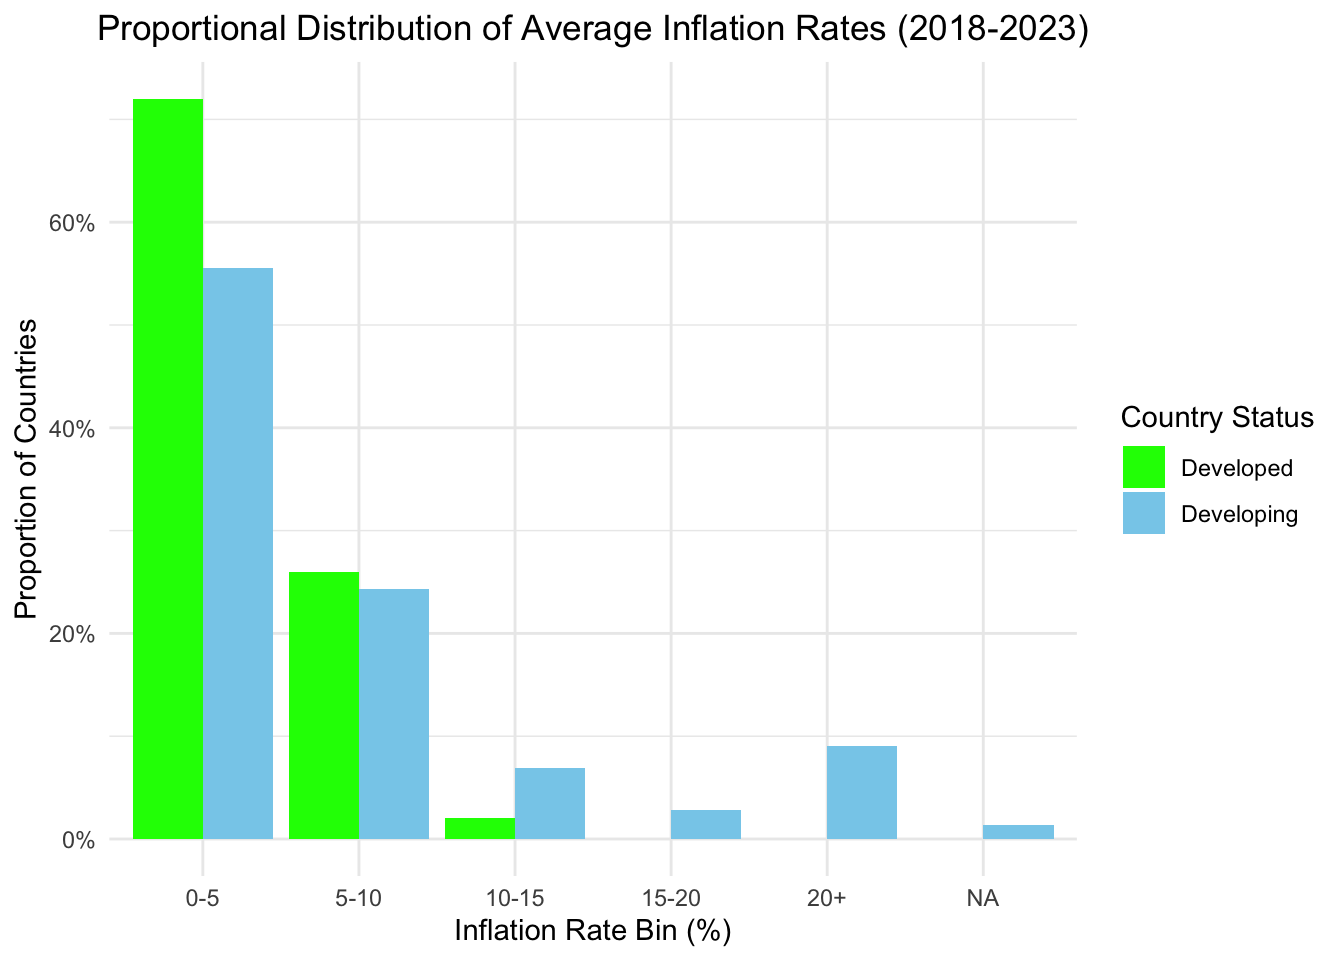
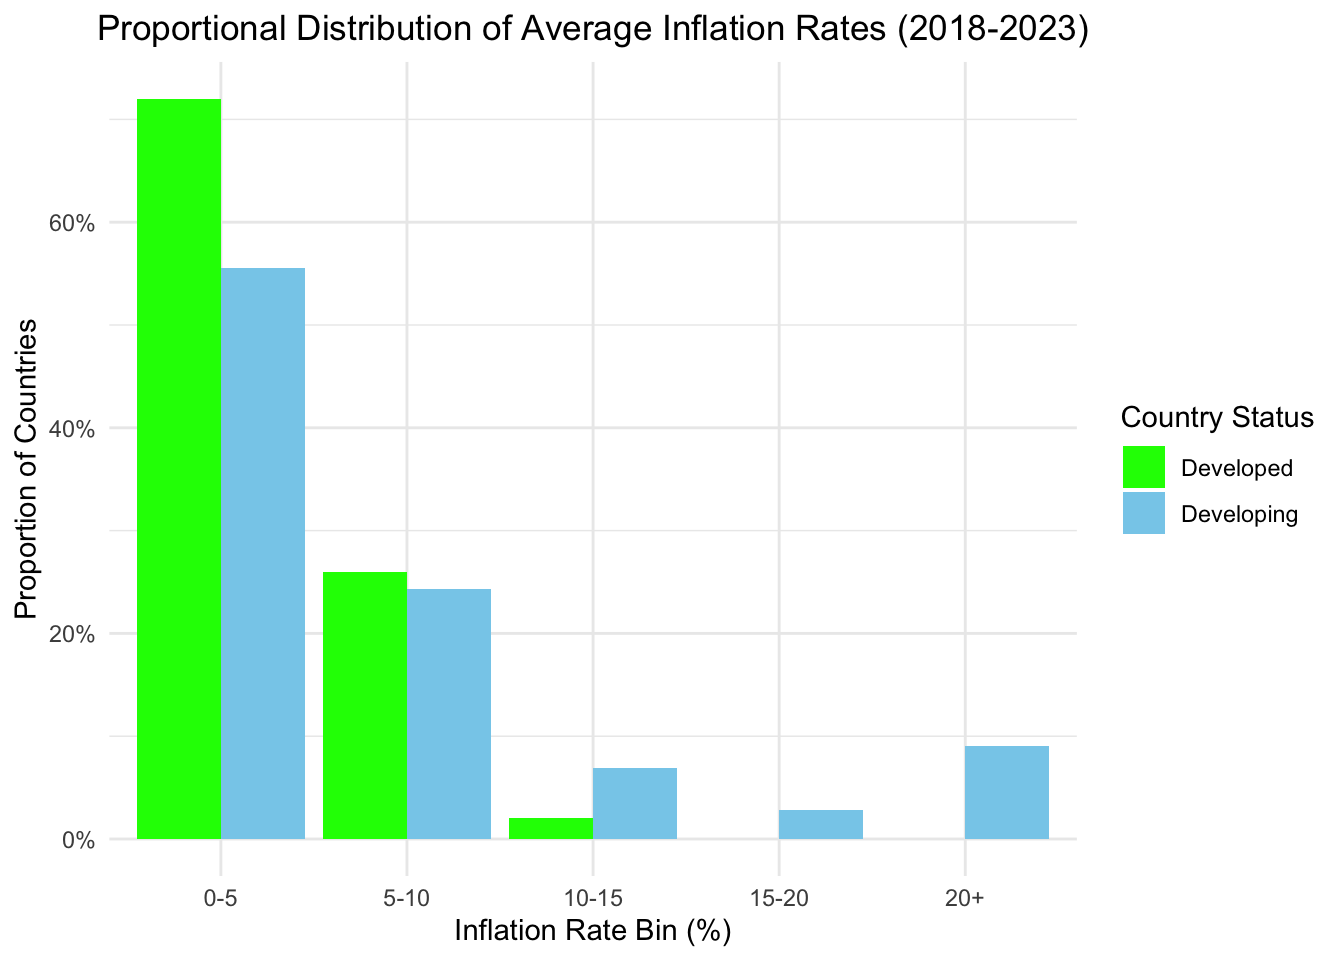
edited graph 10

diff --git a/docs/results.html b/docs/results.html
@@ -649,8 +649,8 @@ pre > code.sourceCode > span > a:first-child::before { text-decoration: underlin
 <span id="cb10-32"><a href="#cb10-32" aria-hidden="true" tabindex="-1"></a>)</span></code><button title="Copy to Clipboard" class="code-copy-button"><i class="bi"></i></button></pre></div>
 </details>
 <div class="cell-output-display">
-<div class="parcoords html-widget html-fill-item" height="464px" id="htmlwidget-e7d42fb65e617a64bbcc" style="width:100%;height:464px; position:relative; overflow-x:auto; overflow-y:hidden; max-width:100%;" width="100%"></div>
-<script type="application/json" data-for="htmlwidget-e7d42fb65e617a64bbcc">{"x":{"data":{"names":["1","2","3","4","5","6","7","8","9","10","11","12","13","14","15","16","17","18","19","20","21","22","23","24","25","26","27","28","29","30","31","32","33","34","35","36","37","38","39","40","41","42","43"],"Country":["Albania","Andorra","Austria","Belarus","Belgium","Bosnia and Herzegovina","Bulgaria","Croatia","Cyprus","Czech Republic","Denmark","Estonia","Finland","France","Germany","Greece","Hungary","Iceland","Ireland","Italy","Kosovo","Latvia","Lithuania","Luxembourg","Malta","Moldova","Montenegro","Netherlands","North Macedonia","Norway","Poland","Portugal","Romania","Russian Federation","San Marino","Serbia","Slovak Republic","Slovenia","Spain","Sweden","Switzerland","Ukraine","United Kingdom"],"Ratio_2018":[0.05755395683453238,0.0440771349862259,0.03238866396761134,0.06526315789473684,0.01801801801801802,0.1088825214899714,0.1343283582089552,0.04132231404958678,0.05539070227497527,0.08832807570977917,0.05571847507331378,0.4625,0.01837672281776417,0.0163098878695209,0.01812191103789127,0.008914525432616676,0.07814761215629523,0.07753164556962025,0.1219512195121951,0.005970149253731343,0.1988304093567251,0.1081081081081081,0.1186943620178041,0.05741626794258373,0.1739130434782609,0.1289308176100629,0.0709318497913769,0.04457364341085271,0.07178217821782178,0.02030456852791878,0.1211498973305955,0.02304526748971193,0.1657458563535912,0.2058823529411765,0.02622377622377622,0.08442776735459663,0.08097165991902834,0.0619718309859155,0.02407221664994985,0.04810126582278481,0.0728643216080402,0.05794701986754967,0.01622247972190035],"Ratio_2019":[0.03115727002967359,0.05649717514124294,0.02124645892351275,0.03414634146341463,0.02254098360655738,0.08734939759036144,0.2185792349726776,0.04829545454545454,0.05913978494623656,0.1216216216216216,0.05029585798816568,0.4457831325301205,0.01993865030674847,0.02151639344262295,0.01706484641638225,0.01024258760107817,0.07503828483920369,0.02857142857142857,0.08944543828264759,0.002994011976047904,0.2711864406779661,0.01634877384196185,0.1284916201117318,0.1294642857142857,0.1045918367346939,0.125,0.05203045685279187,0.04831932773109243,0.09653465346534654,0.0270935960591133,0.0962800875273523,0.02315608919382504,0.1065573770491803,0.1605839416058394,0.03484320557491289,0.08317214700193423,0.05208333333333334,0.05303030303030303,0.02049180327868853,0.07002801120448179,0.0303030303030303,0.06324110671936758,0.01866977829638273],"Ratio_2020":[-0.04353562005277044,-0.2413793103448276,-0.07961399276236429,-0.01473684210526316,-0.04736371760500446,-0.08086253369272237,-0.1754385964912281,-0.09872241579558654,-0.02959094865100087,-0.1436314363143631,-0.04265402843601895,-0.1584699453551912,-0.03320053120849933,-0.06631762652705062,-0.06038291605301913,-0.04362101313320826,-0.05674653215636823,-0.08903225806451613,0.1263157894736842,-0.05775470473718365,-0.2355555555555555,-0.08196721311475409,0.002159827213822894,-0.03658536585365853,-0.07201646090534979,-0.226775956284153,-0.1425908667287978,-0.07317073170731707,-0.09251968503937008,-0.02819956616052061,-0.03496503496503496,-0.06152705707931801,-0.07489878542510121,-0.140625,-0.09497206703910616,-0.01581722319859402,-0.05612244897959184,-0.0511221945137157,-0.09144295302013423,-0.04962779156327544,-0.05324074074074073,-0.0627062706270627,-0.09735349716446126],"Ratio_2021":[0.1183510638297872,0.1707818930041152,0.05090909090909091,0.05825242718446601,0.0639481000926784,0.2078651685393259,0.3422222222222222,0.167741935483871,0.09969788519637462,0.09828009828009827,0.2067039106145252,0.4034090909090909,0.03693570451436389,0.06039076376554174,0.0544918998527246,0.04174950298210736,0.09256844850065188,0.07085561497326204,0.3098859315589353,0.06116838487972509,0.4953703703703703,0.1509009009009009,0.1428571428571429,0.2938775510204082,0.2721774193548387,0.4136904761904762,0.1518691588785047,0.125,0.08538899430740038,0.09375,0.1287313432835821,0.04578313253012049,0.1102514506769826,0.3597560975609757,0.1746617466174662,0.1370106761565836,0.07855973813420622,0.1122994652406417,0.05795847750865053,0.1603260869565218,0.1365853658536585,0.06952965235173825,0.08182683158896289],"Ratio_2022":[0.07480916030534351,0.2467866323907455,0.06122448979591836,-0.1138014527845036,0.02876318312559923,0.1354838709677419,0.1813953488372093,0.1032448377581121,0.05957943925233645,0.06588235294117646,0.0505050505050505,0.00546448087431694,0.02029769959404601,0.02340234023402341,0.02160493827160494,0.03118040089086859,0.0620782726045884,0.1335311572700296,0.1995359628770302,0.03403330919623462,0.2139303482587064,0.07177033492822966,0.06315789473684211,0.05668016194331984,0.08316430020283976,-0.1432664756446992,0.09065155807365441,0.1033057851239669,0.04263565891472868,0.08264462809917356,0.1138211382113821,0.06049822064056939,0.07992202729044834,-0.06486486486486487,0.1060402684563758,0.04672897196261682,0.03292894280762565,0.03713892709766162,0.056672760511883,0.04437869822485208,0.08333333333333333,-0.3706563706563706,0.04819277108433735],"Ratio_2023":[0.05852842809364549,0.03846153846153846,-0.01032258064516129,0.09582309582309581,0.01330798479087452,0.05279503105590062,0.08181818181818182,0.04920634920634921,0.03234152652005175,-0.002358490566037736,0.08417508417508418,-0.155440414507772,-0.01558441558441558,0.0100090991810737,-0.004784688995215311,0.0118413262285376,-0.01224489795918367,0.08038585209003216,-0.1270207852193996,0.005200594353640416,0.1885714285714286,-0.006880733944954128,-0.007832898172323761,-0.04280155642023347,0.1585623678646935,0.0198300283286119,0.0975609756097561,0.002222222222222222,0.01834862385321101,0.01136363636363636,0.004032258064516129,0.02320887991927346,0.04030710172744722,0.1846153846153846,0.005532503457814661,0.05112474437627812,0.02857142857142857,0.03070175438596491,0.02571428571428572,-0.005494505494505495,0.02102102102102102,0.06439854191980558,0.003]},"options":{"rownames":false,"brushMode":"1D-axes","brushPredicate":"AND","reorderable":true,"margin":{"top":50,"bottom":50,"left":100,"right":50},"alpha":0.5,"mode":"queue","bundlingStrength":0.5,"smoothness":0},"autoresize":false,"tasks":null},"evals":[],"jsHooks":[]}</script>
+<div class="parcoords html-widget html-fill-item" height="464px" id="htmlwidget-7f56a4cbf88b3db8c931" style="width:100%;height:464px; position:relative; overflow-x:auto; overflow-y:hidden; max-width:100%;" width="100%"></div>
+<script type="application/json" data-for="htmlwidget-7f56a4cbf88b3db8c931">{"x":{"data":{"names":["1","2","3","4","5","6","7","8","9","10","11","12","13","14","15","16","17","18","19","20","21","22","23","24","25","26","27","28","29","30","31","32","33","34","35","36","37","38","39","40","41","42","43"],"Country":["Albania","Andorra","Austria","Belarus","Belgium","Bosnia and Herzegovina","Bulgaria","Croatia","Cyprus","Czech Republic","Denmark","Estonia","Finland","France","Germany","Greece","Hungary","Iceland","Ireland","Italy","Kosovo","Latvia","Lithuania","Luxembourg","Malta","Moldova","Montenegro","Netherlands","North Macedonia","Norway","Poland","Portugal","Romania","Russian Federation","San Marino","Serbia","Slovak Republic","Slovenia","Spain","Sweden","Switzerland","Ukraine","United Kingdom"],"Ratio_2018":[0.05755395683453238,0.0440771349862259,0.03238866396761134,0.06526315789473684,0.01801801801801802,0.1088825214899714,0.1343283582089552,0.04132231404958678,0.05539070227497527,0.08832807570977917,0.05571847507331378,0.4625,0.01837672281776417,0.0163098878695209,0.01812191103789127,0.008914525432616676,0.07814761215629523,0.07753164556962025,0.1219512195121951,0.005970149253731343,0.1988304093567251,0.1081081081081081,0.1186943620178041,0.05741626794258373,0.1739130434782609,0.1289308176100629,0.0709318497913769,0.04457364341085271,0.07178217821782178,0.02030456852791878,0.1211498973305955,0.02304526748971193,0.1657458563535912,0.2058823529411765,0.02622377622377622,0.08442776735459663,0.08097165991902834,0.0619718309859155,0.02407221664994985,0.04810126582278481,0.0728643216080402,0.05794701986754967,0.01622247972190035],"Ratio_2019":[0.03115727002967359,0.05649717514124294,0.02124645892351275,0.03414634146341463,0.02254098360655738,0.08734939759036144,0.2185792349726776,0.04829545454545454,0.05913978494623656,0.1216216216216216,0.05029585798816568,0.4457831325301205,0.01993865030674847,0.02151639344262295,0.01706484641638225,0.01024258760107817,0.07503828483920369,0.02857142857142857,0.08944543828264759,0.002994011976047904,0.2711864406779661,0.01634877384196185,0.1284916201117318,0.1294642857142857,0.1045918367346939,0.125,0.05203045685279187,0.04831932773109243,0.09653465346534654,0.0270935960591133,0.0962800875273523,0.02315608919382504,0.1065573770491803,0.1605839416058394,0.03484320557491289,0.08317214700193423,0.05208333333333334,0.05303030303030303,0.02049180327868853,0.07002801120448179,0.0303030303030303,0.06324110671936758,0.01866977829638273],"Ratio_2020":[-0.04353562005277044,-0.2413793103448276,-0.07961399276236429,-0.01473684210526316,-0.04736371760500446,-0.08086253369272237,-0.1754385964912281,-0.09872241579558654,-0.02959094865100087,-0.1436314363143631,-0.04265402843601895,-0.1584699453551912,-0.03320053120849933,-0.06631762652705062,-0.06038291605301913,-0.04362101313320826,-0.05674653215636823,-0.08903225806451613,0.1263157894736842,-0.05775470473718365,-0.2355555555555555,-0.08196721311475409,0.002159827213822894,-0.03658536585365853,-0.07201646090534979,-0.226775956284153,-0.1425908667287978,-0.07317073170731707,-0.09251968503937008,-0.02819956616052061,-0.03496503496503496,-0.06152705707931801,-0.07489878542510121,-0.140625,-0.09497206703910616,-0.01581722319859402,-0.05612244897959184,-0.0511221945137157,-0.09144295302013423,-0.04962779156327544,-0.05324074074074073,-0.0627062706270627,-0.09735349716446126],"Ratio_2021":[0.1183510638297872,0.1707818930041152,0.05090909090909091,0.05825242718446601,0.0639481000926784,0.2078651685393259,0.3422222222222222,0.167741935483871,0.09969788519637462,0.09828009828009827,0.2067039106145252,0.4034090909090909,0.03693570451436389,0.06039076376554174,0.0544918998527246,0.04174950298210736,0.09256844850065188,0.07085561497326204,0.3098859315589353,0.06116838487972509,0.4953703703703703,0.1509009009009009,0.1428571428571429,0.2938775510204082,0.2721774193548387,0.4136904761904762,0.1518691588785047,0.125,0.08538899430740038,0.09375,0.1287313432835821,0.04578313253012049,0.1102514506769826,0.3597560975609757,0.1746617466174662,0.1370106761565836,0.07855973813420622,0.1122994652406417,0.05795847750865053,0.1603260869565218,0.1365853658536585,0.06952965235173825,0.08182683158896289],"Ratio_2022":[0.07480916030534351,0.2467866323907455,0.06122448979591836,-0.1138014527845036,0.02876318312559923,0.1354838709677419,0.1813953488372093,0.1032448377581121,0.05957943925233645,0.06588235294117646,0.0505050505050505,0.00546448087431694,0.02029769959404601,0.02340234023402341,0.02160493827160494,0.03118040089086859,0.0620782726045884,0.1335311572700296,0.1995359628770302,0.03403330919623462,0.2139303482587064,0.07177033492822966,0.06315789473684211,0.05668016194331984,0.08316430020283976,-0.1432664756446992,0.09065155807365441,0.1033057851239669,0.04263565891472868,0.08264462809917356,0.1138211382113821,0.06049822064056939,0.07992202729044834,-0.06486486486486487,0.1060402684563758,0.04672897196261682,0.03292894280762565,0.03713892709766162,0.056672760511883,0.04437869822485208,0.08333333333333333,-0.3706563706563706,0.04819277108433735],"Ratio_2023":[0.05852842809364549,0.03846153846153846,-0.01032258064516129,0.09582309582309581,0.01330798479087452,0.05279503105590062,0.08181818181818182,0.04920634920634921,0.03234152652005175,-0.002358490566037736,0.08417508417508418,-0.155440414507772,-0.01558441558441558,0.0100090991810737,-0.004784688995215311,0.0118413262285376,-0.01224489795918367,0.08038585209003216,-0.1270207852193996,0.005200594353640416,0.1885714285714286,-0.006880733944954128,-0.007832898172323761,-0.04280155642023347,0.1585623678646935,0.0198300283286119,0.0975609756097561,0.002222222222222222,0.01834862385321101,0.01136363636363636,0.004032258064516129,0.02320887991927346,0.04030710172744722,0.1846153846153846,0.005532503457814661,0.05112474437627812,0.02857142857142857,0.03070175438596491,0.02571428571428572,-0.005494505494505495,0.02102102102102102,0.06439854191980558,0.003]},"options":{"rownames":false,"brushMode":"1D-axes","brushPredicate":"AND","reorderable":true,"margin":{"top":50,"bottom":50,"left":100,"right":50},"alpha":0.5,"mode":"queue","bundlingStrength":0.5,"smoothness":0},"autoresize":false,"tasks":null},"evals":[],"jsHooks":[]}</script>
 </div>
 </div>
 <p>To further understand the relationship between government debt levels and economic growth, we focused on countries of Europe. The parallel coordinates plot visualizes the ratio of GDP growth to government debt for European countries across six years (2018–2023).</p>
@@ -732,26 +732,27 @@ pre > code.sourceCode > span > a:first-child::before { text-decoration: underlin
 <span id="cb12-29"><a href="#cb12-29" aria-hidden="true" tabindex="-1"></a>    <span class="at">Proportion =</span> Count <span class="sc">/</span> <span class="fu">sum</span>(Count, <span class="at">na.rm =</span> <span class="cn">TRUE</span>)  <span class="co"># Calculate proportions correctly for each status</span></span>
 <span id="cb12-30"><a href="#cb12-30" aria-hidden="true" tabindex="-1"></a>  ) <span class="sc">%&gt;%</span></span>
 <span id="cb12-31"><a href="#cb12-31" aria-hidden="true" tabindex="-1"></a>  <span class="fu">ungroup</span>() <span class="sc">%&gt;%</span></span>
-<span id="cb12-32"><a href="#cb12-32" aria-hidden="true" tabindex="-1"></a>  <span class="fu">complete</span>(Status, Inflation_Bin, <span class="at">fill =</span> <span class="fu">list</span>(<span class="at">Count =</span> <span class="dv">0</span>, <span class="at">Proportion =</span> <span class="dv">0</span>))  <span class="co"># Ensure all bins are represented</span></span>
-<span id="cb12-33"><a href="#cb12-33" aria-hidden="true" tabindex="-1"></a></span>
-<span id="cb12-34"><a href="#cb12-34" aria-hidden="true" tabindex="-1"></a><span class="co"># Create the bar plot with proportions</span></span>
-<span id="cb12-35"><a href="#cb12-35" aria-hidden="true" tabindex="-1"></a><span class="fu">ggplot</span>(inflation_binned, <span class="fu">aes</span>(<span class="at">x =</span> Inflation_Bin, <span class="at">y =</span> Proportion, <span class="at">fill =</span> Status)) <span class="sc">+</span></span>
-<span id="cb12-36"><a href="#cb12-36" aria-hidden="true" tabindex="-1"></a>  <span class="fu">geom_bar</span>(<span class="at">stat =</span> <span class="st">"identity"</span>, <span class="at">position =</span> <span class="fu">position_dodge</span>(<span class="at">width =</span> <span class="fl">0.9</span>)) <span class="sc">+</span></span>
-<span id="cb12-37"><a href="#cb12-37" aria-hidden="true" tabindex="-1"></a>  <span class="fu">scale_fill_manual</span>(</span>
-<span id="cb12-38"><a href="#cb12-38" aria-hidden="true" tabindex="-1"></a>    <span class="at">values =</span> <span class="fu">c</span>(<span class="st">"Developed"</span> <span class="ot">=</span> <span class="st">"green"</span>, <span class="st">"Developing"</span> <span class="ot">=</span> <span class="st">"skyblue"</span>),</span>
-<span id="cb12-39"><a href="#cb12-39" aria-hidden="true" tabindex="-1"></a>    <span class="at">name =</span> <span class="st">"Country Status"</span></span>
-<span id="cb12-40"><a href="#cb12-40" aria-hidden="true" tabindex="-1"></a>  ) <span class="sc">+</span></span>
-<span id="cb12-41"><a href="#cb12-41" aria-hidden="true" tabindex="-1"></a>  <span class="fu">theme_minimal</span>() <span class="sc">+</span></span>
-<span id="cb12-42"><a href="#cb12-42" aria-hidden="true" tabindex="-1"></a>  <span class="fu">labs</span>(</span>
-<span id="cb12-43"><a href="#cb12-43" aria-hidden="true" tabindex="-1"></a>    <span class="at">title =</span> <span class="st">"Proportional Distribution of Average Inflation Rates (2018-2023)"</span>,</span>
-<span id="cb12-44"><a href="#cb12-44" aria-hidden="true" tabindex="-1"></a>    <span class="at">x =</span> <span class="st">"Inflation Rate Bin (%)"</span>,</span>
-<span id="cb12-45"><a href="#cb12-45" aria-hidden="true" tabindex="-1"></a>    <span class="at">y =</span> <span class="st">"Proportion of Countries"</span></span>
-<span id="cb12-46"><a href="#cb12-46" aria-hidden="true" tabindex="-1"></a>  ) <span class="sc">+</span></span>
-<span id="cb12-47"><a href="#cb12-47" aria-hidden="true" tabindex="-1"></a>  <span class="fu">scale_y_continuous</span>(<span class="at">labels =</span> scales<span class="sc">::</span>percent) <span class="sc">+</span>  <span class="co"># Format y-axis as percentages</span></span>
-<span id="cb12-48"><a href="#cb12-48" aria-hidden="true" tabindex="-1"></a>  <span class="fu">theme</span>(</span>
-<span id="cb12-49"><a href="#cb12-49" aria-hidden="true" tabindex="-1"></a>    <span class="at">legend.position =</span> <span class="st">"right"</span>,                     <span class="co"># Move legend to the right</span></span>
-<span id="cb12-50"><a href="#cb12-50" aria-hidden="true" tabindex="-1"></a>    <span class="at">plot.title =</span> <span class="fu">element_text</span>(<span class="at">hjust =</span> <span class="fl">0.5</span>)         <span class="co"># Center align the title</span></span>
-<span id="cb12-51"><a href="#cb12-51" aria-hidden="true" tabindex="-1"></a>  )</span></code><button title="Copy to Clipboard" class="code-copy-button"><i class="bi"></i></button></pre></div>
+<span id="cb12-32"><a href="#cb12-32" aria-hidden="true" tabindex="-1"></a>  <span class="fu">complete</span>(Status, Inflation_Bin, <span class="at">fill =</span> <span class="fu">list</span>(<span class="at">Count =</span> <span class="dv">0</span>, <span class="at">Proportion =</span> <span class="dv">0</span>)) <span class="sc">%&gt;%</span>  <span class="co"># Ensure all bins are represented</span></span>
+<span id="cb12-33"><a href="#cb12-33" aria-hidden="true" tabindex="-1"></a>  <span class="fu">filter</span>(<span class="sc">!</span><span class="fu">is.na</span>(Inflation_Bin))  <span class="co"># Remove rows with NA in Inflation_Bin</span></span>
+<span id="cb12-34"><a href="#cb12-34" aria-hidden="true" tabindex="-1"></a></span>
+<span id="cb12-35"><a href="#cb12-35" aria-hidden="true" tabindex="-1"></a><span class="co"># Create the bar plot with proportions</span></span>
+<span id="cb12-36"><a href="#cb12-36" aria-hidden="true" tabindex="-1"></a><span class="fu">ggplot</span>(inflation_binned, <span class="fu">aes</span>(<span class="at">x =</span> Inflation_Bin, <span class="at">y =</span> Proportion, <span class="at">fill =</span> Status)) <span class="sc">+</span></span>
+<span id="cb12-37"><a href="#cb12-37" aria-hidden="true" tabindex="-1"></a>  <span class="fu">geom_bar</span>(<span class="at">stat =</span> <span class="st">"identity"</span>, <span class="at">position =</span> <span class="fu">position_dodge</span>(<span class="at">width =</span> <span class="fl">0.9</span>)) <span class="sc">+</span></span>
+<span id="cb12-38"><a href="#cb12-38" aria-hidden="true" tabindex="-1"></a>  <span class="fu">scale_fill_manual</span>(</span>
+<span id="cb12-39"><a href="#cb12-39" aria-hidden="true" tabindex="-1"></a>    <span class="at">values =</span> <span class="fu">c</span>(<span class="st">"Developed"</span> <span class="ot">=</span> <span class="st">"green"</span>, <span class="st">"Developing"</span> <span class="ot">=</span> <span class="st">"skyblue"</span>),</span>
+<span id="cb12-40"><a href="#cb12-40" aria-hidden="true" tabindex="-1"></a>    <span class="at">name =</span> <span class="st">"Country Status"</span></span>
+<span id="cb12-41"><a href="#cb12-41" aria-hidden="true" tabindex="-1"></a>  ) <span class="sc">+</span></span>
+<span id="cb12-42"><a href="#cb12-42" aria-hidden="true" tabindex="-1"></a>  <span class="fu">theme_minimal</span>() <span class="sc">+</span></span>
+<span id="cb12-43"><a href="#cb12-43" aria-hidden="true" tabindex="-1"></a>  <span class="fu">labs</span>(</span>
+<span id="cb12-44"><a href="#cb12-44" aria-hidden="true" tabindex="-1"></a>    <span class="at">title =</span> <span class="st">"Proportional Distribution of Average Inflation Rates (2018-2023)"</span>,</span>
+<span id="cb12-45"><a href="#cb12-45" aria-hidden="true" tabindex="-1"></a>    <span class="at">x =</span> <span class="st">"Inflation Rate Bin (%)"</span>,</span>
+<span id="cb12-46"><a href="#cb12-46" aria-hidden="true" tabindex="-1"></a>    <span class="at">y =</span> <span class="st">"Proportion of Countries"</span></span>
+<span id="cb12-47"><a href="#cb12-47" aria-hidden="true" tabindex="-1"></a>  ) <span class="sc">+</span></span>
+<span id="cb12-48"><a href="#cb12-48" aria-hidden="true" tabindex="-1"></a>  <span class="fu">scale_y_continuous</span>(<span class="at">labels =</span> scales<span class="sc">::</span>percent) <span class="sc">+</span>  <span class="co"># Format y-axis as percentages</span></span>
+<span id="cb12-49"><a href="#cb12-49" aria-hidden="true" tabindex="-1"></a>  <span class="fu">theme</span>(</span>
+<span id="cb12-50"><a href="#cb12-50" aria-hidden="true" tabindex="-1"></a>    <span class="at">legend.position =</span> <span class="st">"right"</span>,                     <span class="co"># Move legend to the right</span></span>
+<span id="cb12-51"><a href="#cb12-51" aria-hidden="true" tabindex="-1"></a>    <span class="at">plot.title =</span> <span class="fu">element_text</span>(<span class="at">hjust =</span> <span class="fl">0.5</span>)         <span class="co"># Center align the title</span></span>
+<span id="cb12-52"><a href="#cb12-52" aria-hidden="true" tabindex="-1"></a>  )</span></code><button title="Copy to Clipboard" class="code-copy-button"><i class="bi"></i></button></pre></div>
 </details>
 <div class="cell-output-display">
 <div>
